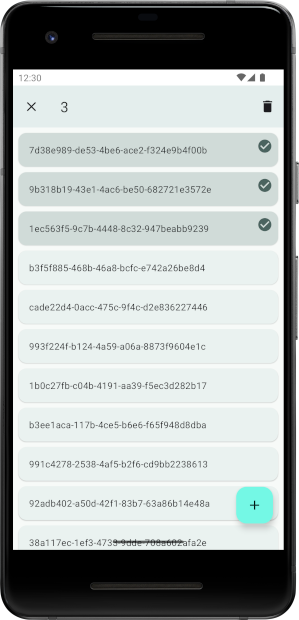
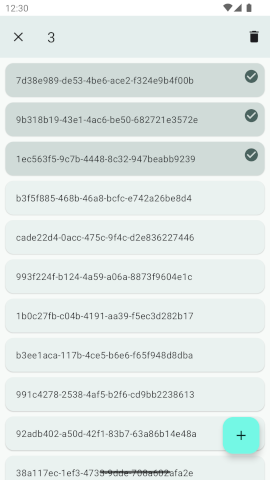
Update screenshots

diff --git a/README.md b/README.md
@@ -52,4 +52,4 @@ recyclerView.multiChoiceModeListener = multiChoiceModeListener
 
 This sample app demonstrates how to use the [RecyclerView library](#recyclerview).
 
-![RecyclerView sample app on a Pixel 2](screenshots/recyclerview.webp)
+![RecyclerView sample app](screenshots/recyclerview.webp)
